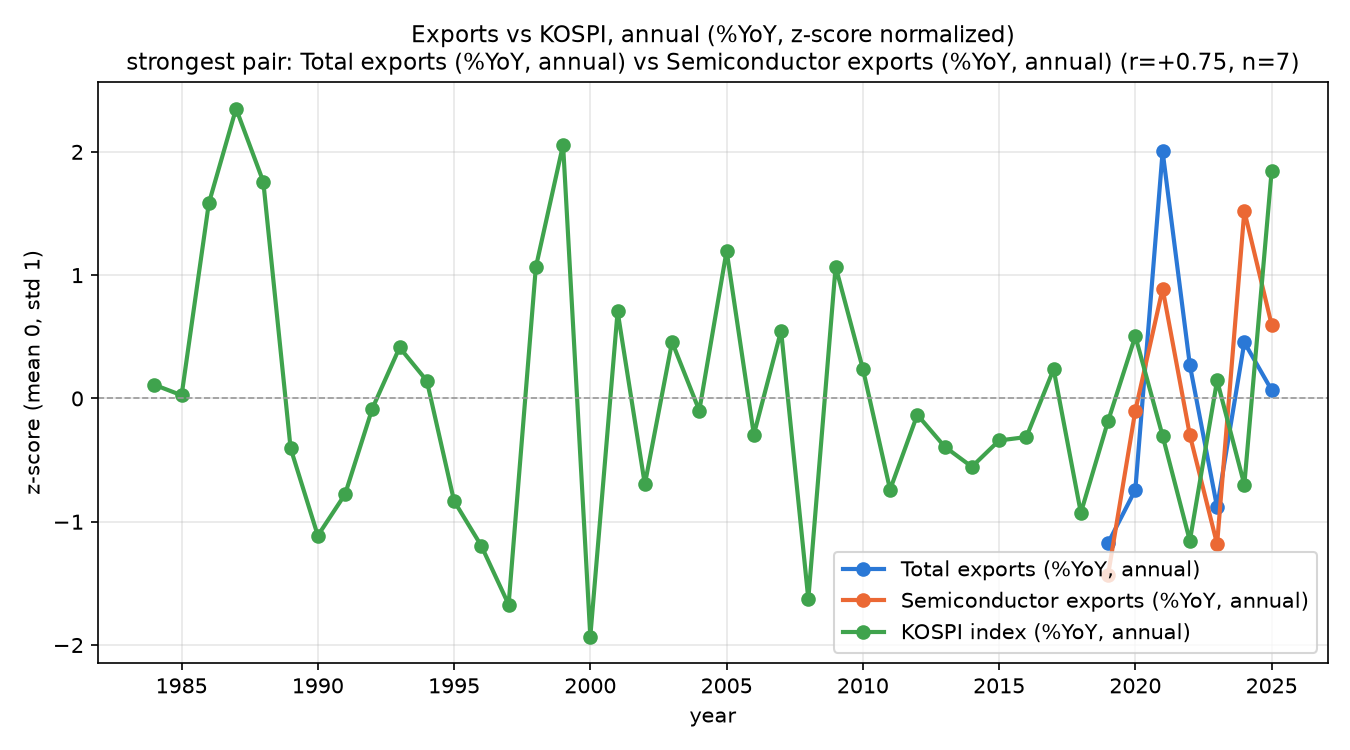
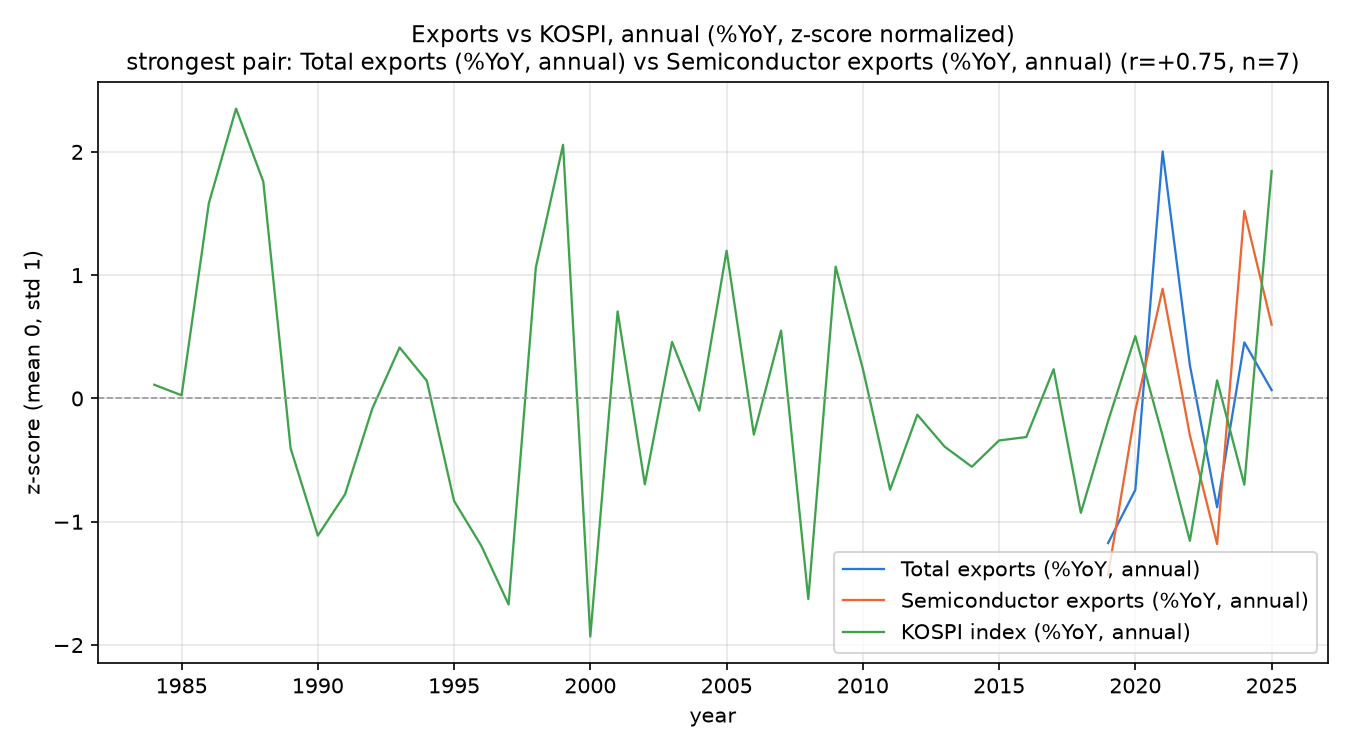
feat: 연간 차트 스타일 통일 + 2023년~ 확대 월별 차트 추가
사용자 요청:
1. 연간 차트도 월별/QoQ와 같은 방식으로 — 점 마커 제거, 선 얇게(2→1.1).
2. 2023년부터 zoom in된 그래프 — 월별 차트를 재사용하되 ZOOM_START(2023-01)
   이후로 자르고, 그 구간 안에서 z-score를 다시 계산한다(전체 이력 기준
   z-score를 그대로 쓰면 총수출처럼 표본이 긴 지표가 최근 구간을 이미
   눌러놓은 모양 그대로 나와 확대의 의미가 없다 — 잘라낸 구간 자체의
   평균/표준편차로 재정규화해야 그 구간의 등락폭이 온전히 드러난다).

render_chart를 _render_monthly_chart(공용 구현)+render_chart(기존 동작)+
render_chart_zoom(새 진입점)으로 리팩터 — 월별 메인 차트와 확대 차트가
같은 스타일/컬러 로직을 공유한다.

출력: monitoring/exports-price-correlation-2023-zoom.png(신규).
exports-price-correlation.yml: 새 파일도 커밋 대상에 추가.

diff --git a/scripts/correlation_analysis.py b/scripts/correlation_analysis.py
@@ -50,6 +50,15 @@ OUTPUTS
                                              three series, but %QoQ (vs prior
                                              quarter) instead of %YoY, on a
                                              quarterly grid instead of monthly.
+  monitoring/exports-price-correlation-2023-zoom.png   2026-08-17 added — same
+                                             three monthly %YoY series as the
+                                             main PNG, but sliced to
+                                             ZOOM_START~present and
+                                             re-z-scored within that slice
+                                             (not the full-history z-score)
+                                             so recent detail isn't flattened
+                                             by 35+ years of total_exports
+                                             history dominating the scale.
 
 CURRENT (IN-PROGRESS) MONTH IS ALWAYS EXCLUDED
 ────────────────────────────────────────────────
@@ -90,6 +99,8 @@ OUT_MD_ANNUAL = OUT_DIR / "exports-kospi-correlation-annual.md"
 OUT_PNG_ANNUAL = OUT_DIR / "exports-kospi-correlation-annual.png"
 OUT_MD_QOQ = OUT_DIR / "exports-price-correlation-qoq.md"
 OUT_PNG_QOQ = OUT_DIR / "exports-price-correlation-qoq.png"
+OUT_PNG_ZOOM = OUT_DIR / "exports-price-correlation-2023-zoom.png"
+ZOOM_START = pd.Timestamp("2023-01-01")
 
 # 표본이 이보다 적으면 상관계수를 표에는 싣되 "신뢰 불가"로 명시한다 —
 # 조용히 숫자만 보여주면 n=3짜리 상관계수도 확신처럼 읽힌다.
@@ -620,16 +631,20 @@ MONTHLY_CHART_COLORS = {
 }
 
 
-def render_chart(df: pd.DataFrame, top_pair: dict | None) -> None:
-    """2026-08-17: 사용자가 총수출도 같이 그려달라고 요청 — 원래는 상관 가장
-    높은 쌍(하이닉스 vs 코스피) 2개 지표만 그렸는데, render_annual_chart와
-    같은 방식(전 지표를 z-score로 겹쳐 그리기)으로 통일했다. 총수출은
-    1990~이라 표본이 훨씬 길지만, z-score는 각 지표를 자기 자신의 평균/표준
-    편차로 정규화하므로 그 변동폭이 다른 지표에 묻히지 않고 그대로 보인다."""
+def _render_monthly_chart(df: pd.DataFrame, top_pair: dict | None, out_path: Path,
+                           start: pd.Timestamp | None = None, title_note: str = "") -> None:
+    """render_chart의 실제 구현 — start를 주면 그 시점부터만 잘라서 그린다
+    (2026-08-17 사용자 요청: "2023년부터 zoom in"). z-score는 잘린 구간
+    안에서 다시 계산한다 — 전체 이력 기준 z-score를 그대로 쓰면 최근 구간이
+    이미 전체 차트에서 보이는 것과 똑같은 모양으로 눌려 나온다(총수출처럼
+    1990~ 표본이 긴 지표일수록 심함); 구간 안에서 재정규화해야 그 구간
+    자체의 등락폭이 자기 스케일로 드러난다 — "확대"의 실질적 의미."""
     if top_pair is None:
         return
     cols = [c for c in ("total_exports_yoy", "hynix_price_yoy", "kospi_yoy") if c in df.columns]
     plot_df = df[cols].dropna(how="all")
+    if start is not None:
+        plot_df = plot_df[plot_df.index >= start]
     if plot_df.empty:
         return
 
@@ -645,8 +660,8 @@ def render_chart(df: pd.DataFrame, top_pair: dict | None) -> None:
                 color=MONTHLY_CHART_COLORS.get(c, "#888888"), label=SERIES_LABELS_CHART[c])
     ax.axhline(0, color="#999999", linewidth=0.8, linestyle="--")
     ax.set_title(
-        f"Exports vs SK Hynix vs KOSPI, monthly (%YoY, z-score normalized)\n"
-        f"strongest pair: {SERIES_LABELS_CHART[top_pair['a']]} vs "
+        f"Exports vs SK Hynix vs KOSPI, monthly (%YoY, z-score normalized){title_note}\n"
+        f"strongest pair (full history): {SERIES_LABELS_CHART[top_pair['a']]} vs "
         f"{SERIES_LABELS_CHART[top_pair['b']]} (r={top_pair['r']:+.2f}, n={top_pair['n']})",
         fontsize=11,
     )
@@ -657,8 +672,24 @@ def render_chart(df: pd.DataFrame, top_pair: dict | None) -> None:
     fig.autofmt_xdate()
     fig.tight_layout()
     OUT_DIR.mkdir(parents=True, exist_ok=True)
-    fig.savefig(OUT_PNG, dpi=150)
+    fig.savefig(out_path, dpi=150)
     plt.close(fig)
+
+
+def render_chart(df: pd.DataFrame, top_pair: dict | None) -> None:
+    """2026-08-17: 사용자가 총수출도 같이 그려달라고 요청 — 원래는 상관 가장
+    높은 쌍(하이닉스 vs 코스피) 2개 지표만 그렸는데, render_annual_chart와
+    같은 방식(전 지표를 z-score로 겹쳐 그리기)으로 통일했다. 총수출은
+    1990~이라 표본이 훨씬 길지만, z-score는 각 지표를 자기 자신의 평균/표준
+    편차로 정규화하므로 그 변동폭이 다른 지표에 묻히지 않고 그대로 보인다."""
+    _render_monthly_chart(df, top_pair, OUT_PNG)
+
+
+def render_chart_zoom(df: pd.DataFrame, top_pair: dict | None, start: pd.Timestamp) -> None:
+    """render_chart의 확대판 — start 이후 구간만, 그 구간 안에서 재정규화해
+    그린다(위 _render_monthly_chart 참고)."""
+    _render_monthly_chart(df, top_pair, OUT_PNG_ZOOM, start=start,
+                           title_note=f" — {start.strftime('%Y-%m')}~")
 
 
 def render_annual_chart(df: pd.DataFrame, top_pair: dict | None) -> None:
@@ -666,7 +697,12 @@ def render_annual_chart(df: pd.DataFrame, top_pair: dict | None) -> None:
     top-pair-only; render_chart switched to this pattern 2026-08-17 per user
     request to show total exports alongside price) — showing every metric is
     more informative than picking just the best-correlated two, and is closer
-    to what was actually asked for ("관계를 그래프를 그려보자")."""
+    to what was actually asked for ("관계를 그래프를 그려보자").
+
+    2026-08-17: 점 마커 제거 + 선 얇게(2→1.1) — 월별/QoQ 차트에 적용한 것과
+    같은 스타일로 통일해달라는 사용자 요청. 연간은 표본이 7개뿐이라 마커
+    없이는 개별 관측치가 잘 안 보일 수 있지만, 세 차트가 같은 관례를
+    따르는 쪽을 우선한다."""
     cols = [c for c in ANNUAL_SERIES_LABELS if c in df.columns and df[c].notna().any()]
     plot_df = df[cols].dropna(how="all")
     if plot_df.empty:
@@ -677,7 +713,7 @@ def render_annual_chart(df: pd.DataFrame, top_pair: dict | None) -> None:
     fig, ax = plt.subplots(figsize=(9, 5))
     for c in cols:
         series = z[c].dropna()
-        ax.plot(series.index, series.values, marker="o", linewidth=2,
+        ax.plot(series.index, series.values, linewidth=1.1,
                 color=colors.get(c, "#888888"), label=ANNUAL_SERIES_LABELS_CHART[c])
     ax.axhline(0, color="#999999", linewidth=0.8, linestyle="--")
     title = "Exports vs KOSPI, annual (%YoY, z-score normalized)"
@@ -745,10 +781,13 @@ def main() -> int:
     trustworthy = [p for p in pairs if pd.notna(p["r"]) and p["n"] >= MIN_TRUSTWORTHY_N]
     top_pair = trustworthy[0] if trustworthy else (pairs[0] if pairs and pd.notna(pairs[0]["r"]) else None)
     render_chart(df, top_pair)
+    render_chart_zoom(df, top_pair, ZOOM_START)
 
     print(f"[월별] {len(pairs)}개 쌍 계산 완료 → {OUT_MD}")
     if OUT_PNG.exists():
         print(f"[월별] 차트 저장 → {OUT_PNG}")
+    if OUT_PNG_ZOOM.exists():
+        print(f"[월별 확대 {ZOOM_START.strftime('%Y-%m')}~] 차트 저장 → {OUT_PNG_ZOOM}")
     for p in pairs:
         r_str = f"{p['r']:+.2f}" if pd.notna(p["r"]) else "N/A"
         print(f"  {p['a']:<18} x {p['b']:<18} r={r_str} n={p['n']}")
